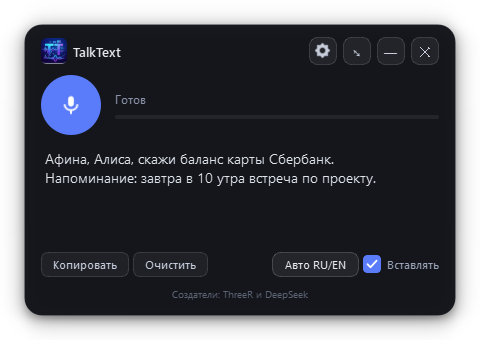
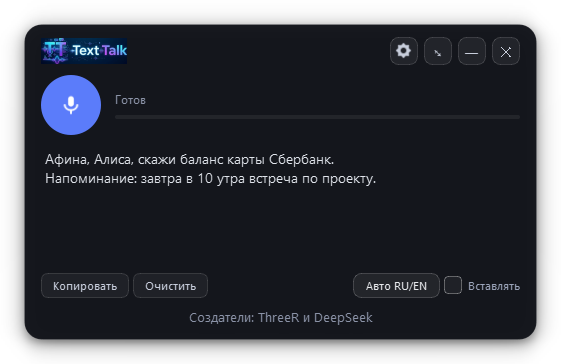
1.0.1: логотип в заголовке, крупнее подпись авторов, вставка выключена по умолчанию, запоминание размера окна

diff --git a/app/ui.py b/app/ui.py
@@ -37,7 +37,7 @@ MODE_LABELS = {
 }
 
 COMPACT_SIZE = (216, 252)
-FULL_SIZE = (480, 340)
+FULL_SIZE = (561, 364)
 MIN_FULL_SIZE = (420, 300)
 
 STYLES = """
@@ -224,13 +224,12 @@ class MainWindow(QWidget):
         header = QHBoxLayout()
         header.setSpacing(6)
         logo = QLabel()
-        logo_pixmap = QPixmap(str(paths.resource("logo.png")))
+        logo_pixmap = QPixmap(str(paths.resource("logo_wordmark.png")))
         if not logo_pixmap.isNull():
-            logo.setPixmap(logo_pixmap.scaled(26, 26, Qt.KeepAspectRatio, Qt.SmoothTransformation))
+            logo.setPixmap(
+                logo_pixmap.scaledToHeight(26, Qt.SmoothTransformation)
+            )
         header.addWidget(logo)
-        title = QLabel("TalkText")
-        title.setObjectName("title")
-        header.addWidget(title)
         header.addStretch(1)
         self.settings_btn = QPushButton()
         self.settings_btn.setObjectName("tool")
@@ -305,7 +304,7 @@ class MainWindow(QWidget):
         layout.addLayout(footer)
 
         credits = QLabel("Создатели: ThreeR и DeepSeek")
-        credits.setStyleSheet("color: #5c6373; font-size: 7.5pt;")
+        credits.setStyleSheet("color: #8b93a7; font-size: 9.5pt;")
         credits.setAlignment(Qt.AlignCenter)
         layout.addWidget(credits)
 
@@ -410,7 +409,7 @@ class MainWindow(QWidget):
         self.recognizer.language.connect(self._on_language)
 
     def _restore_state(self) -> None:
-        self.insert_check.setChecked(self.settings.value("insert", True, type=bool))
+        self.insert_check.setChecked(self.settings.value("insert", False, type=bool))
         self._apply_compact(self._compact, save=False)
         # Стартуем в правом нижнем углу рабочей области — над часами, не закрывая панель задач.
         # Вокруг окна есть прозрачная тень (24 px), поэтому окно сдвигаем на её ширину:
@@ -766,6 +765,7 @@ class MainWindow(QWidget):
             self._resize_edges_set = set()
             if not self._compact:
                 self._full_size = self.size()
+                self.settings.setValue("size", self._full_size)
             self.unsetCursor()
         self._drag_pos = None
         super().mouseReleaseEvent(event)

diff --git a/scripts/prepare_assets.py b/scripts/prepare_assets.py
@@ -48,6 +48,23 @@ def rounded_icon(image: Image.Image, size: int) -> Image.Image:
     return result
 
 
+def bright_bbox(image: Image.Image, threshold: float = 110) -> tuple[int, int, int, int]:
+    """Границы яркого содержимого (логотип на тёмном фоне)."""
+    rgb = image.convert("RGB")
+    width, height = rgb.size
+    px = rgb.load()
+    left, top, right, bottom = width, height, 0, 0
+    for y in range(height):
+        for x in range(width):
+            r, g, b = px[x, y]
+            if 0.299 * r + 0.587 * g + 0.114 * b > threshold:
+                left = min(left, x)
+                right = max(right, x)
+                top = min(top, y)
+                bottom = max(bottom, y)
+    return left, top, right + 1, bottom + 1
+
+
 def main() -> None:
     icon = Image.open(ICON_SRC)
     box = content_bbox(icon)
@@ -61,11 +78,21 @@ def main() -> None:
     sizes = [(16, 16), (24, 24), (32, 32), (48, 48), (64, 64), (128, 128), (256, 256)]
     big.save(RES / "icon.ico", sizes=sizes)
 
-    banner = Image.open(BANNER_SRC)
-    banner = banner.convert("RGB")
+    banner = Image.open(BANNER_SRC).convert("RGB")
     banner.resize((1200, 670), Image.LANCZOS).save(DOCS / "banner.png")
-    print("готово: icon.png, logo.png, icon.ico, docs/banner.png")
-    print("размер логотипа:", big.size)
+
+    # Горизонтальный логотип «TT + TextTalk» для заголовка окна.
+    mark = bright_bbox(banner)
+    print("bbox логотипа:", mark)
+    wordmark = banner.crop(mark)
+    wordmark.resize((wordmark.width * 96 // wordmark.height, 96), Image.LANCZOS).save(
+        RES / "logo_wordmark.png"
+    )
+    print("готово: icon.png, logo.png, icon.ico, logo_wordmark.png, docs/banner.png")
+
+
+if __name__ == "__main__":
+    main()
 
 
 if __name__ == "__main__":

diff --git a/README.md b/README.md
@@ -1,7 +1,7 @@
 # TalkText
 
 ![Windows 10/11](https://img.shields.io/badge/Windows-10%2F11-0078D4?logo=windows&logoColor=white)
-![Version 1.0.0](https://img.shields.io/badge/version-1.0.0-blue)
+![Version 1.0.1](https://img.shields.io/badge/version-1.0.1-blue)
 ![Python 3.12](https://img.shields.io/badge/Python-3.12-3776AB?logo=python&logoColor=white)
 ![Portable](https://img.shields.io/badge/portable-no%20install-brightgreen)
 
@@ -56,7 +56,7 @@
 **Контрольная сумма** (SHA256):
 
 ```
[2 lines of base64/hex data omitted]
 ```
 
 Проверка в PowerShell:
